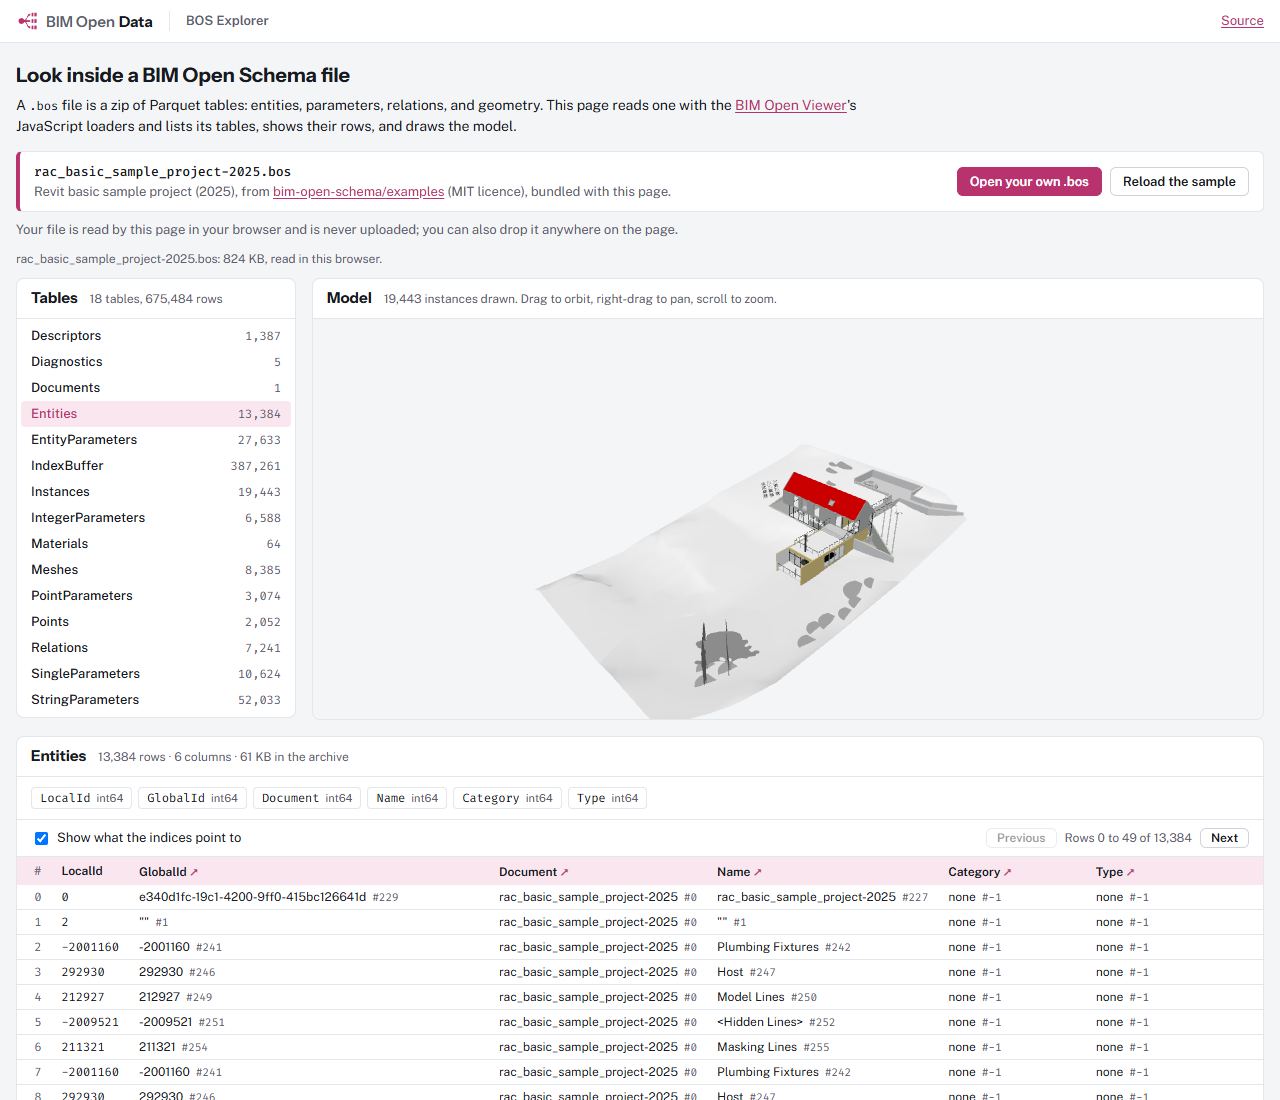
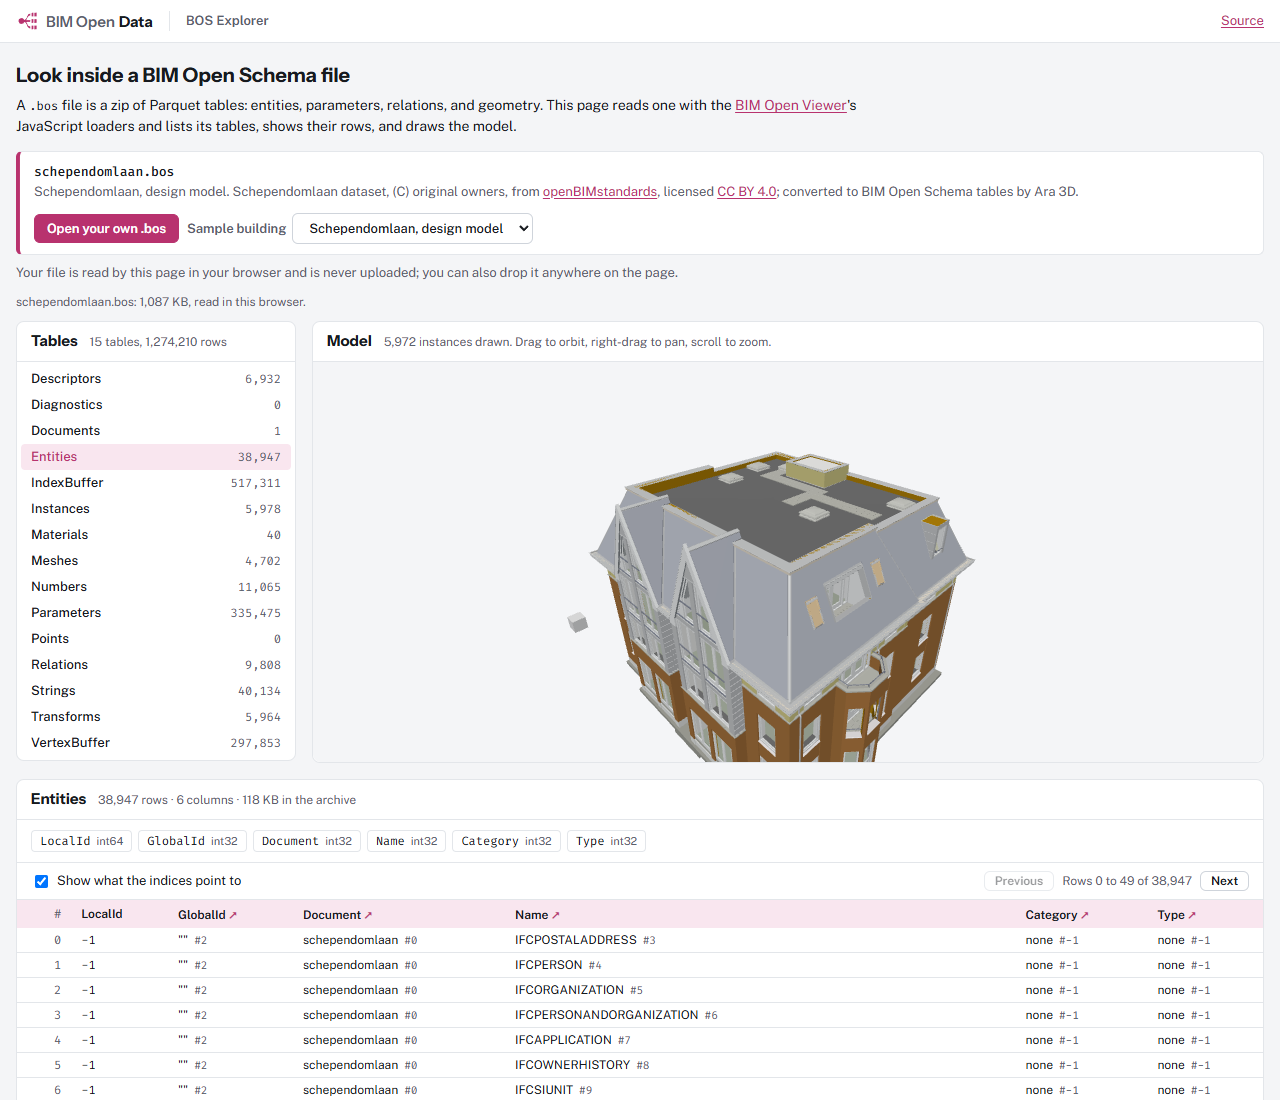
BOS explorer: bundle the public samples with their credits, drop the Autodesk-derived sample
The explorer offers Schependomlaan, DigitalHub architecture and heating,
and the Duplex from samples/public/, shows each one's attribution, and
resolves Parameters.Value through the descriptor type. The smoke check
opens every bundled sample against samples.json and chooses the
geometry-free federated DigitalHub through the file input. README and
the landing page describe the samples and point to NOTICE.md.

diff --git a/site-src/src/schema.ts b/site-src/src/schema.ts
@@ -3,7 +3,9 @@
 // at the commit deps.json pins.
 import { readColumn, type Archive, type Table } from './archive.js';
 
-type Reference = 'string' | 'entity' | 'descriptor' | 'document' | readonly string[];
+// 'parameter': the Value column of the single Parameters table, whose meaning follows the row's
+// descriptor type (an index into Numbers, Entities, Strings, or Points, or the integer itself).
+type Reference = 'string' | 'entity' | 'descriptor' | 'document' | 'parameter' | readonly string[];
 
 const parameterType = ['Int', 'Number', 'Entity', 'String', 'Point'];
 const relationType = ['PartOf', 'MemberOf', 'ContainedIn', 'HostedBy', 'ChildOf', 'HasLayer', 'HasMaterial', 'ConnectsTo',
@@ -19,6 +21,7 @@ const references: Record<string, Record<string, Reference>> = {
   Descriptors: { Name: 'string', Units: 'string', Group: 'string', Type: parameterType },
   Relations: { EntityA: 'entity', EntityB: 'entity', RelationType: relationType },
   Diagnostics: { Type: diagnosticType, Document: 'document', Entity: 'entity', Message: 'string' },
+  Parameters: parameter('parameter'),
   IntegerParameters: parameter(),
   SingleParameters: parameter(),
   PointParameters: parameter(),
@@ -32,7 +35,8 @@ export const hasMeaning = (table: string, column: string): boolean => references
 
 /** Turns index columns into text: string-table entries, entity and document names, descriptor names, enum names. */
 export interface Resolver {
-  readonly describe: (table: string, column: string, value: unknown) => string | undefined;
+  /** `row` is the whole row, which a Parameters Value needs for its descriptor. */
+  readonly describe: (table: string, column: string, value: unknown, row?: Readonly<Record<string, unknown>>) => string | undefined;
 }
 
 const at = (list: readonly unknown[] | undefined, value: unknown): unknown => {
@@ -48,16 +52,36 @@ export async function createResolver(archive: Archive): Promise<Resolver> {
     const table = findTable(archive, name);
     return table && table.columns.some((c) => c.name === field) ? readColumn(table, field) : undefined;
   };
-  const [strings, entityNames, documentTitles, descriptorNames] = await Promise.all([
+  const [strings, entityNames, documentTitles, descriptorNames, descriptorTypes, numbers, pointX, pointY, pointZ] = await Promise.all([
     column('Strings', 'Strings'), column('Entities', 'Name'), column('Documents', 'Title'), column('Descriptors', 'Name'),
+    column('Descriptors', 'Type'), column('Numbers', 'Numbers'), column('Points', 'X'), column('Points', 'Y'), column('Points', 'Z'),
   ]);
   const text = (value: unknown): string | undefined => {
     const found = at(strings, value);
     return found === undefined ? undefined : String(found);
   };
-  const describe = (table: string, field: string, value: unknown): string | undefined => {
+  const number = (value: unknown): string | undefined => {
+    const found = at(numbers, value);
+    return found === undefined ? undefined : String(Number(Number(found).toPrecision(7)));
+  };
+  const point = (value: unknown): string | undefined => {
+    const coordinates = [pointX, pointY, pointZ].map((axis) => at(axis, value));
+    return coordinates.some((c) => c === undefined) ? undefined : `(${coordinates.map((c) => Number(Number(c).toPrecision(7))).join(', ')})`;
+  };
+  // Parameter values by ParameterType: Int, Number, Entity, String, Point.
+  const parameterValue = (value: unknown, row?: Readonly<Record<string, unknown>>): string | undefined => {
+    switch (parameterType[Number(at(descriptorTypes, row?.Descriptor))]) {
+      case 'Number': return number(value);
+      case 'Entity': return Number(value) < 0 ? 'none' : text(at(entityNames, value));
+      case 'String': return text(value);
+      case 'Point': return point(value);
+      default: return undefined;
+    }
+  };
+  const describe = (table: string, field: string, value: unknown, row?: Readonly<Record<string, unknown>>): string | undefined => {
     const reference = references[table]?.[field];
     if (reference === undefined || value === null || value === undefined) return undefined;
+    if (reference === 'parameter') return parameterValue(value, row);
     if (Number(value) < 0) return 'none';
     if (Array.isArray(reference)) return at(reference, value) as string | undefined;
     switch (reference) {

diff --git a/site-src/src/main.ts b/site-src/src/main.ts
@@ -1,5 +1,5 @@
 import './style.css';
-import { SAMPLE } from '../sample.mjs';
+import { SAMPLES } from '../sample.mjs';
 import { openArchive, readRows, type Archive, type Row, type Table } from './archive.js';
 import { createResolver, hasMeaning, type Resolver } from './schema.js';
 import { createModelView, hasGeometry, type ModelView } from './model-view.js';
@@ -75,10 +75,11 @@ function renderColumns(table: Table) {
   }));
 }
 
-function cell(table: Table, column: string, value: unknown, resolver: Resolver): HTMLTableCellElement {
+function cell(table: Table, column: string, row: Row, resolver: Resolver): HTMLTableCellElement {
+  const value = row[column];
   const td = make('td');
   const raw = formatValue(value);
-  const text = showText() ? resolver.describe(table.name, column, value) : undefined;
+  const text = showText() ? resolver.describe(table.name, column, value, row) : undefined;
   if (text === undefined) {
     td.textContent = raw;
     if (value === null || value === undefined) td.className = 'null';
@@ -97,7 +98,7 @@ function renderRows(table: Table, rows: Row[], start: number, resolver: Resolver
   }));
   const body = rows.map((row, offset) => {
     const tr = make('tr');
-    tr.append(make('td', 'row-number', String(start + offset)), ...table.columns.map((column) => cell(table, column.name, row[column.name], resolver)));
+    tr.append(make('td', 'row-number', String(start + offset)), ...table.columns.map((column) => cell(table, column.name, row, resolver)));
     return tr;
   });
   const thead = make('thead');
@@ -168,22 +169,35 @@ async function load(name: string, source: () => Promise<ArrayBuffer>, origin: st
   }
 }
 
-const loadSample = () => load(
-  SAMPLE.file,
+type Sample = (typeof SAMPLES)[number];
+
+const loadSample = (sample: Sample) => load(
+  sample.file,
   async () => {
-    const response = await fetch(`samples/${encodeURIComponent(SAMPLE.file)}`);
+    const response = await fetch(`samples/${encodeURIComponent(sample.file)}`);
     if (!response.ok) throw new Error(`the sample could not be fetched (HTTP ${response.status})`);
     return response.arrayBuffer();
   },
-  `${SAMPLE.title}, from <a href="${SAMPLE.source}">bim-open-schema/examples</a>, derived from Autodesk's Revit basic sample project, bundled with this page.`,
+  `${sample.title}. ${sample.credit}; converted to BIM Open Schema tables by Ara 3D.`,
 );
+
+const chosenSample = (): Sample =>
+  SAMPLES.find((sample) => sample.file === element<HTMLSelectElement>('sample').value) ?? SAMPLES[0];
+
+function renderSampleChoices() {
+  element('sample').replaceChildren(...SAMPLES.map((sample) => {
+    const option = make('option', undefined, sample.title);
+    option.value = sample.file;
+    return option;
+  }));
+}
 
 const loadFile = (file: File) => load(file.name, () => file.arrayBuffer(), 'Your file, read on this device. Nothing was uploaded.');
 
 function wireInputs() {
   const input = element<HTMLInputElement>('file');
   input.onchange = () => { if (input.files?.[0]) void loadFile(input.files[0]); input.value = ''; };
-  element<HTMLButtonElement>('load-sample').onclick = () => void loadSample();
+  element<HTMLSelectElement>('sample').onchange = () => void loadSample(chosenSample());
   element<HTMLButtonElement>('page-previous').onclick = () => void showPage(Math.max(0, (state?.start ?? 0) - PAGE_SIZE));
   element<HTMLButtonElement>('page-next').onclick = () => void showPage((state?.start ?? 0) + PAGE_SIZE);
   element<HTMLInputElement>('show-text').onchange = () => void showPage(state?.start ?? 0);
@@ -208,5 +222,6 @@ try {
 } catch {
   modelView = undefined;
 }
+renderSampleChoices();
 wireInputs();
-void loadSample();
+void loadSample(SAMPLES[0]);

diff --git a/site/index.html b/site/index.html
@@ -4,7 +4,7 @@
 <meta charset="utf-8">
 <meta name="viewport" content="width=device-width, initial-scale=1">
 <title>BIM Open Data</title>
-<meta name="description" content="The .NET implementation of BIM Open Schema and the IFC stack. On 2026-10-03 the code is still in bim-open-toolkit/src/data.">
+<meta name="description" content="The .NET implementation of BIM Open Schema and the IFC stack, with openly licensed sample buildings and a browser BOS explorer.">
 <link rel="icon" href="assets/data-mark.svg" type="image/svg+xml">
 <link rel="preconnect" href="https://fonts.googleapis.com">
 <link href="https://fonts.googleapis.com/css2?family=Instrument+Sans:wght@600;700&family=Public+Sans:wght@400;500;600&family=Fira+Code:wght@400;500&display=swap" rel="stylesheet">
@@ -52,7 +52,7 @@ footer a { color: var(--dim); }
 </header>
 
 <div class="try">
-  <p><strong>Try it in your browser.</strong> The <a href="explorer/">BOS explorer</a> opens a sample <code>.bos</code> file from the specification repository, lists its tables with row counts and columns, shows their rows, and draws the model in 3D. You can open your own <code>.bos</code> file too; it is read on your device and never uploaded.</p>
+  <p><strong>Try it in your browser.</strong> The <a href="explorer/">BOS explorer</a> opens one of four openly licensed sample buildings (Schependomlaan, DigitalHub architecture and heating, and the Duplex Apartment), lists its tables with row counts and columns, shows their rows, and draws the model in 3D. You can open your own <code>.bos</code> file too; it is read on your device and never uploaded.</p>
   <a class="cta" href="explorer/">Open the BOS explorer</a>
 </div>
 
@@ -88,6 +88,9 @@ footer a { color: var(--dim); }
 
 <h2>What it does not do</h2>
 <p>It does not author geometry; IFC editing is limited to property sets. It has no live connection to Revit or any other authoring tool. It knows nothing about graphs: <a href="https://github.com/ara3d/bim-open-flow">BIM Open Flow</a> builds on it, never the other way round.</p>
+
+<h2>Sample buildings</h2>
+<p><a href="https://github.com/ara3d/bim-open-data/tree/main/samples/public">samples/public</a> holds each sample as a <code>.bos</code> file and a <code>.duckdb</code> database, with the counts of storeys, spaces, doors, windows, walls, and heating parts measured in each. Schependomlaan dataset, (C) original owners, licensed <a href="https://creativecommons.org/licenses/by/4.0/">CC BY 4.0</a>. DigitalHub, (c) 2020 RWTH Aachen University, E3D Institute of Energy Efficiency and Sustainable Building, MIT licensed. BSI (2020) Duplex Apartment Test Files, buildingSMART International, licensed <a href="https://creativecommons.org/licenses/by/4.0/">CC BY 4.0</a>. Each was converted to BIM Open Schema tables by Ara 3D; sources, commits, and full notices are in <a href="https://github.com/ara3d/bim-open-data/blob/main/samples/public/NOTICE.md">NOTICE.md</a>.</p>
 
 <footer>
   <p>Part of the BIM Open family: <a href="https://github.com/ara3d/bim-open-toolkit">Toolkit</a>, <a href="https://github.com/ara3d/bim-open-flow">Flow</a>, <a href="https://github.com/ara3d/bim-open-notebook">Notebook</a>, <a href="https://github.com/ara3d/bim-open-viewer">Viewer</a>, <a href="https://ara3d.github.io/bim-open-schema/">Schema</a>. Source: <a href="https://github.com/ara3d/bim-open-data">ara3d/bim-open-data</a>. MIT licensed.</p>

diff --git a/site-src/index.html b/site-src/index.html
@@ -28,7 +28,7 @@
       </div>
       <div class="source-actions">
         <label class="button primary">Open your own .bos<input id="file" type="file" accept=".bos,.zip,application/zip"></label>
-        <button id="load-sample" class="button" type="button">Reload the sample</button>
+        <label class="sample-choice">Sample building <select id="sample" class="button"></select></label>
       </div>
     </div>
     <p class="privacy">Your file is read by this page in your browser and is never uploaded; you can also drop it anywhere on the page.</p>
@@ -66,7 +66,8 @@
 </main>
 
 <footer>
-  <p>Part of <a href="../">BIM Open Data</a>, the .NET implementation of <a href="https://github.com/ara3d/bim-open-schema">BIM Open Schema</a>. The explorer is static: no server sees your files. MIT licensed.</p>
+  <p>Part of <a href="../">BIM Open Data</a>, the .NET implementation of <a href="https://github.com/ara3d/bim-open-schema">BIM Open Schema</a>. The explorer is static: no server sees your files. The page's code is MIT licensed.</p>
+  <p>The sample buildings keep their own licences (CC BY 4.0 and MIT): the credit for the one shown is above, and the sources, commits, and full notices are in <a href="https://github.com/ara3d/bim-open-data/blob/main/samples/public/NOTICE.md">samples/public/NOTICE.md</a>.</p>
 </footer>
 <script type="module" src="./src/main.ts"></script>
 </body>

diff --git a/site-src/src/style.css b/site-src/src/style.css
@@ -27,7 +27,9 @@ main { max-width: 1400px; margin: 0 auto; padding: 20px 16px 32px; }
 .source-text { display: flex; flex-direction: column; min-width: 0; }
 .source-text strong { font-family: var(--font-mono); font-weight: 500; overflow-wrap: anywhere; }
 .source-text span { color: var(--dim); }
-.source-actions { display: flex; gap: 8px; flex-wrap: wrap; }
+.source-actions { display: flex; gap: 8px; flex-wrap: wrap; align-items: center; }
+.sample-choice { display: inline-flex; align-items: center; gap: 6px; color: var(--dim); font-weight: 600; }
+.sample-choice select { font-weight: 500; }
 .intro .privacy { color: var(--dim); font-size: 13px; }
 #status { min-height: 1.5em; color: var(--dim); font-size: 12px; }
 #status[data-kind="error"] { color: var(--red); font-weight: 500; }

diff --git a/README.md b/README.md
@@ -4,9 +4,11 @@
 
 [`bim-open-schema`](https://github.com/ara3d/bim-open-schema) is the specification of BIM Open Schema; this repository is its .NET implementation: reading and writing BOS files, IFC loading, meshing, byte-exact property-set editing, conversion from IFC to BOS and to DuckDB, the IFC MCP server, and the BOS Browser.
 
-**Try it in the browser:** the [BOS explorer](https://ara3d.github.io/bim-open-data/explorer/) opens a sample `.bos` file, lists its tables with row counts and columns, shows their rows, and draws the model in 3D. It also opens a `.bos` file of your own, read on your device and never uploaded.
+**Try it in the browser:** the [BOS explorer](https://ara3d.github.io/bim-open-data/explorer/) opens one of four openly licensed sample buildings, lists its tables with row counts and columns, shows their rows, and draws the model in 3D. It also opens a `.bos` file of your own, read on your device and never uploaded.
 
-[![The BOS explorer showing the Revit basic sample project: its tables, the model in 3D, and the first rows of Entities](docs/images/explorer.png)](https://ara3d.github.io/bim-open-data/explorer/)
+[![The BOS explorer showing the Schependomlaan design model: its tables, the model in 3D, and the first rows of Entities](docs/images/explorer.png)](https://ara3d.github.io/bim-open-data/explorer/)
+
+**Sample buildings:** [`samples/public/`](samples/public/README.md) holds Schependomlaan (CC BY 4.0), DigitalHub architecture, heating, and a four-model federation (MIT), and the Duplex Apartment (CC BY 4.0), each as a `.bos` and a `.duckdb` file with measured counts. Their licences and required attribution are in [`samples/public/NOTICE.md`](samples/public/NOTICE.md).
 
 **Status on 2026-10-03: the code is here.** It moved from [`ara3d/bim-open-toolkit`](https://github.com/ara3d/bim-open-toolkit), with its git history, in phase 4 of the toolkit's [repository split plan](https://github.com/ara3d/bim-open-toolkit/blob/main/docs/plans/repository-split.md). The paths are the ones it had there (`src/data`, `tests/data`, `src/mcp/BimOpenMcp.Ifc`, `tests/mcp/BimOpenMcp.Ifc.Tests`, `apps/`, `tools/`), so `git log --follow` reaches back through the toolkit's history. The toolkit now takes this repository through its own `deps.json`, as `deps/bim-open-data`.
 
@@ -18,7 +20,7 @@ dotnet build BimOpenData.sln -c Release
 dotnet test BimOpenData.sln -c Release --no-build --filter "TestCategory!=RequiresTestData"
 ```
 
-Tests tagged `RequiresTestData` read the IFC Test Kit and sample models from `data/`, which is never committed; `data/get-test-data.ps1` copies them from sibling checkouts (see `data/README.md`). The meshing comparison's corpus tests skip themselves when their models are absent. `samples/nrc/` holds the three Duplex files the IFC MCP server's tests read.
+Tests tagged `RequiresTestData` read the IFC Test Kit and sample models from `data/`, which is never committed; `data/get-test-data.ps1` copies them from sibling checkouts (see `data/README.md`). The meshing comparison's corpus tests skip themselves when their models are absent. `samples/nrc/` holds the three Duplex files the IFC MCP server's tests read. `samples/public/` holds the converted sample buildings; `node samples/public/fetch.mjs` and `node samples/public/convert.mjs` regenerate them, and `PublicSampleTests` checks their counts.
 
 ## What BIM Open Schema is
 
@@ -94,7 +96,7 @@ Node.js (for `deps.mjs`) and git, the .NET 8 SDK, and the .NET 10 SDK for the BO
 
 The BOS explorer at `explorer/` is a small Vite project in `site-src/` that builds into `site/explorer/` (git-ignored; the workflow builds it). The .NET code cannot run in a browser, so the explorer reads archives with the BIM Open Viewer's JavaScript packages instead: `@bim-open-viewer/loaders` for the geometry, `@bim-open-viewer/core` to draw it, and `@bim-open-viewer/controls` to orbit, taken as TypeScript source from `deps/bim-open-viewer` at the commit `deps.json` pins. The table list and rows come from the same Parquet reader those packages use (hyparquet). The "Show what the indices point to" option resolves string-table, entity, document, and descriptor indices and enum codes, following the record types in the specification's `BimOpenSchema.cs`.
 
-The bundled sample is `rac_basic_sample_project-2025.bos` (844 KB), the Revit basic sample project as published in [`bim-open-schema/examples`](https://github.com/ara3d/bim-open-schema/tree/main/examples). It derives from Autodesk's sample project; that repository's MIT licence covers Ara 3D's code, and whether the model content may be redistributed is an open question ([bim-open-toolkit TKT-144](https://github.com/ara3d/bim-open-toolkit/blob/main/tickets/TKT-144-sample-model-redistribution.md)). The build copies it from `deps/bim-open-schema/examples/`, so no model file is committed here.
+The bundled samples are four files from [`samples/public/`](samples/public/README.md), listed in `site-src/sample.mjs`: `schependomlaan.bos` (1.1 MB, opened first), `digitalhub-arc.bos` (0.4 MB), `digitalhub-hzg.bos` (1.0 MB), and `duplex.bos` (0.1 MB). The build copies them from there. The page shows the credit for the building on screen and links to `samples/public/NOTICE.md`; the Autodesk-derived `bim-open-schema/examples` models are no longer bundled, since their redistribution terms are unsettled ([bim-open-toolkit TKT-144](https://github.com/ara3d/bim-open-toolkit/blob/main/tickets/TKT-144-sample-model-redistribution.md)).
 
 ```powershell
 node deps.mjs                     # adds bim-open-viewer (and its gratify pin) to deps/
@@ -106,9 +108,9 @@ $env:PLAYWRIGHT_CORE = "<path to an installed playwright-core>"
 npm run smoke                     # headless Edge over the built site/; see scripts/smoke.mjs
 ```
 
-The smoke check serves `site/` under `/bim-open-data/`, as Pages does, and fails on any console error or failed request. It opens the sample, checks the 18 tables and their row counts (Entities has 13,384), pages through rows, waits for the model to draw (19,443 instances), then opens `Technicalschoolcurrentm.bos` through the file input. `--screenshot docs/images/explorer.png` refreshes the picture above.
+The smoke check serves `site/` under `/bim-open-data/`, as Pages does, and fails on any console error or failed request. It opens Schependomlaan, checks its tables and the Entities row count that `samples/public/samples.json` records (38,947), shows parameter values as text, pages through rows, and waits for the model to draw (5,972 instances). It then picks each other bundled sample (DigitalHub architecture 3,681 instances, heating 4,119, Duplex 660) and checks its Entities count, its drawing, and its credit, and finally opens the geometry-free `digitalhub-federated.bos` through the file input. `--screenshot docs/images/explorer.png` refreshes the picture above.
 
-The explorer loads archives with `bosToGroups(..., { sourceUp: 'Z' })`: BOS models are z-up and the viewer is y-up, and since viewer `b0ec646` the loader also treats a missing `InstanceFlags` column (older archives, including this sample) as nothing hidden.
+The explorer loads archives with `bosToGroups(..., { sourceUp: 'Z' })`: BOS models are z-up and the viewer is y-up, and since viewer `b0ec646` the loader also treats a missing `InstanceFlags` column (older archives) as nothing hidden. It reads both the current single `Parameters` table, whose `Value` it resolves through the row's descriptor type, and the older per-type parameter tables.
 
 ## The family
 
@@ -116,4 +118,4 @@ BIM Open Data is one of the BIM Open repositories, alongside [BIM Open Flow](htt
 
 ## License
 
-MIT. See `LICENSE`.
+MIT. See `LICENSE`. The sample buildings in `samples/public/` and `samples/nrc/` keep their own licences (CC BY 4.0 and MIT); see `samples/public/NOTICE.md`.
